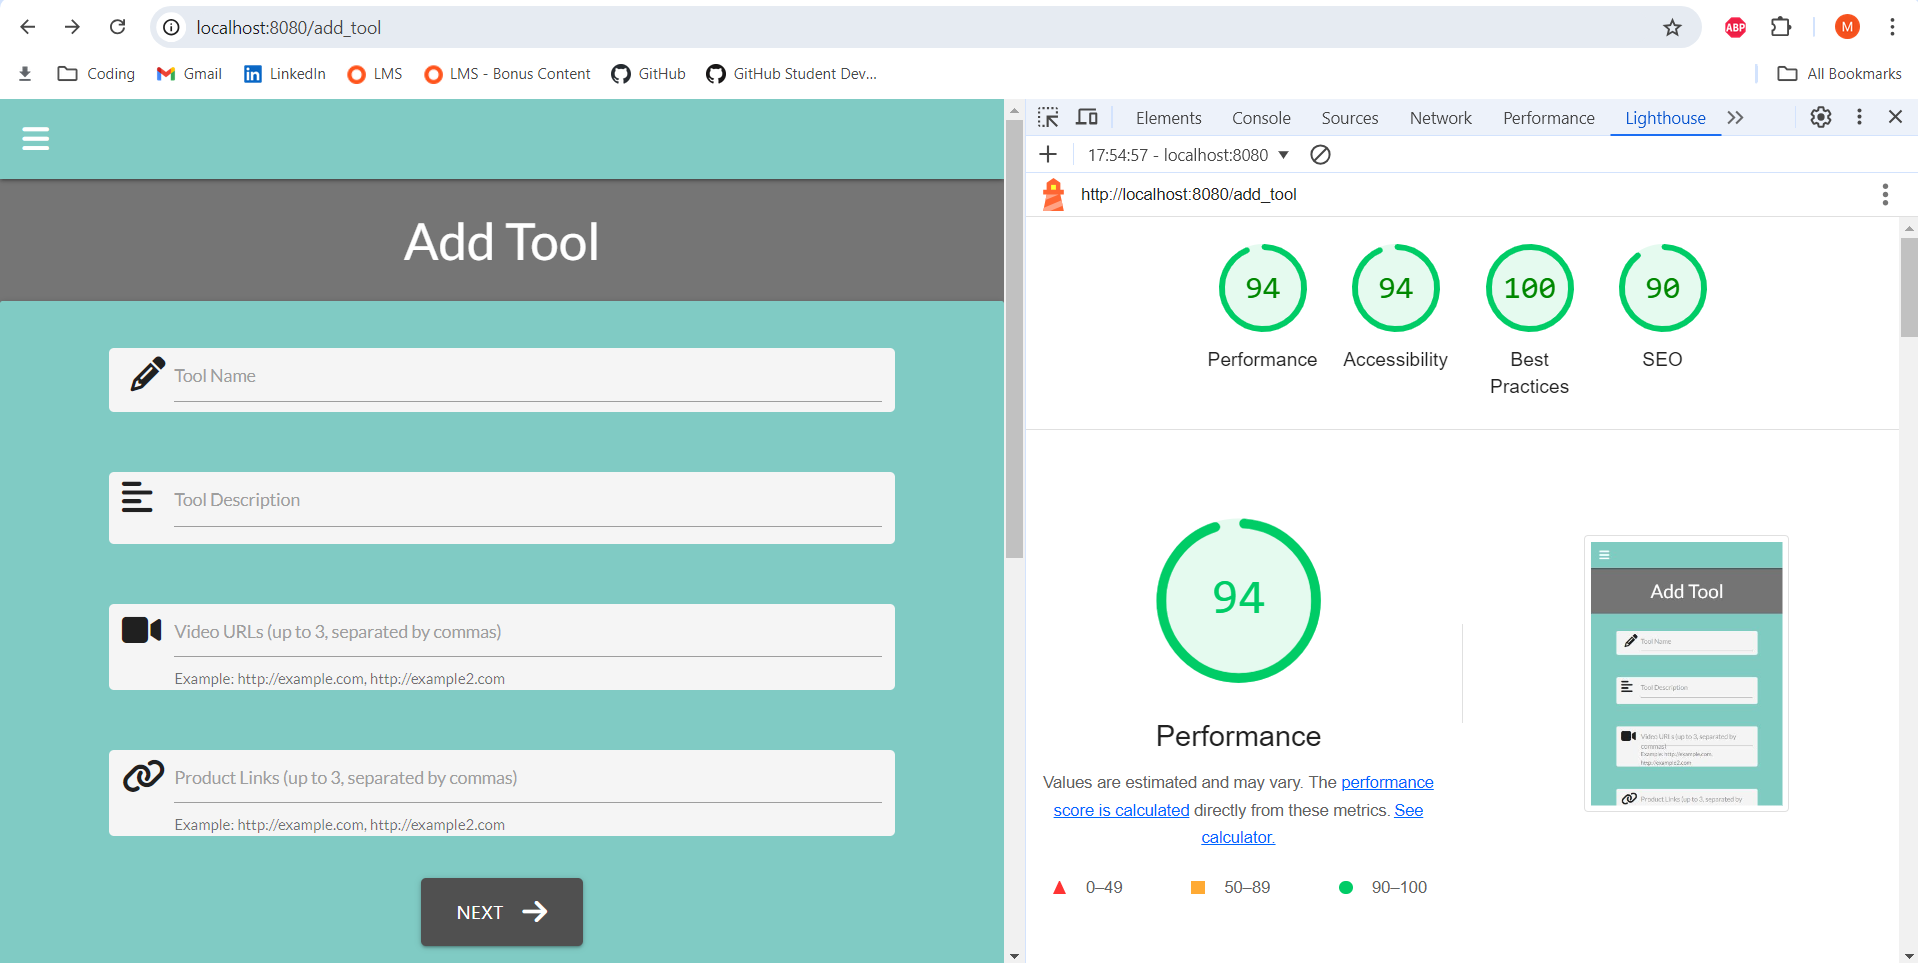
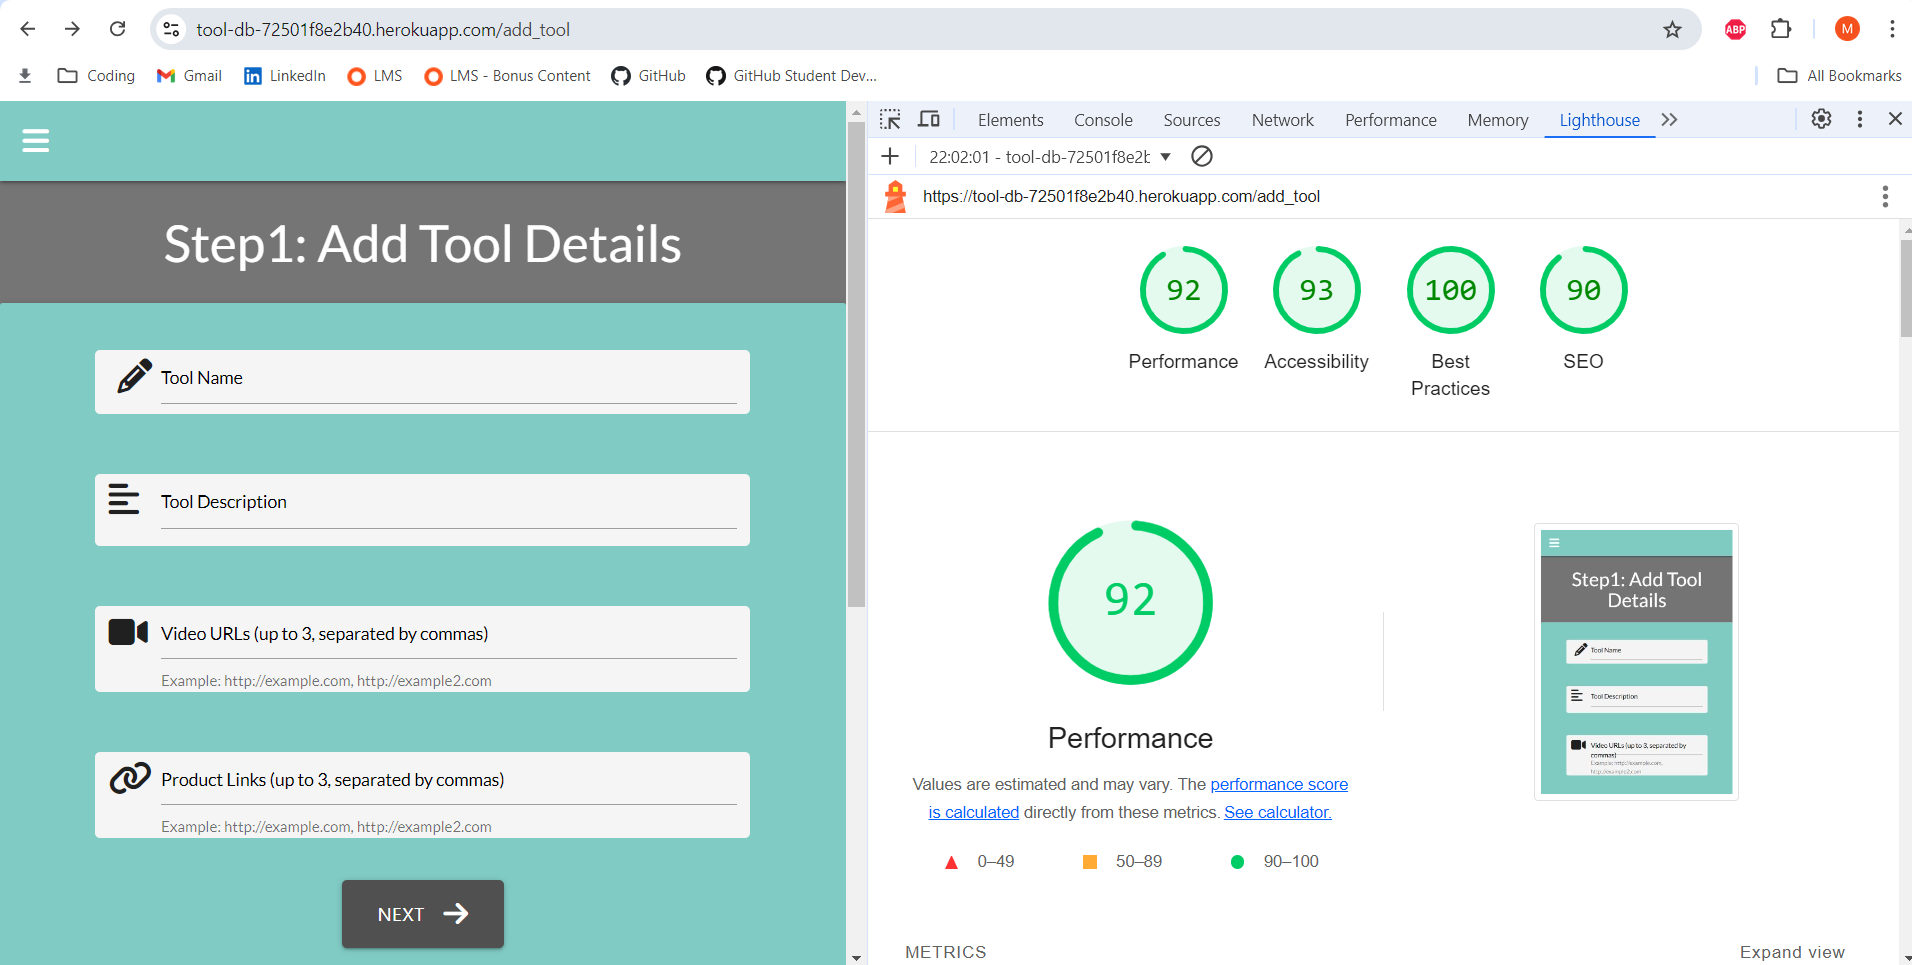
Add much more to readme, including more lighthouse scores

diff --git a/README.md b/README.md
@@ -164,13 +164,13 @@ The Woodworker's Tool Database addresses these challenges by providing an integr
 
 ## Benefits and Advantages
 
-* Centralized Resource: Combines tool information, videos, and purchase links into a single platform, saving time and effort.
+* Centralised Resource: Combines tool information, videos, and purchase links into a single platform, saving time and effort.
 
-* Enhanced Learning: Provides educational videos for each tool, helping users understand and utilize them more effectively.
+* Enhanced Learning: Provides educational videos for each tool, helping users understand and utilise them more effectively.
 
 * Convenience: Offers direct purchase links, allowing users to easily compare options and make purchases without navigating multiple websites.
 
-* Personalization: Enables users to manage their own toolbox, keeping track of their favorite tools and preferences.
+* Personalisation: Enables users to manage their own toolbox, keeping track of their favorite tools and preferences.
 
 
 ## Future Versions
@@ -183,7 +183,7 @@ Future versions of the project may include:
 
 * Tool Reviews and Ratings: User-generated reviews and ratings for tools to provide additional insights and feedback.
 
-* Mobile Optimization: Improved user experience on mobile devices, including a dedicated mobile app.
+* Mobile Optimisation: Improved user experience on mobile devices, including a dedicated mobile app.
 
 * Expanded Database: Regular updates to the tool database with new tools, videos, and purchase links.
 
@@ -233,7 +233,7 @@ User Story 2: Register for an Account
 User Story 3: View and Manage My Toolbox
 
 * As a logged-in user, I want to view the tools I have added to my toolbox and remove any tools I no longer want.
-* So that I can keep my toolbox organized and relevant to my needs.
+* So that I can keep my toolbox organised and relevant to my needs.
 
   * Acceptance Criteria:
 
@@ -288,7 +288,7 @@ User Story 6: Add New Tool
 User Story 7: Add New Category
 
 * As an admin user, I want to add new categories to the tool database.
-* So that I can organize tools into relevant and up-to-date categories.
+* So that I can organise tools into relevant and up-to-date categories.
 
   * Acceptance Criteria:
 
@@ -952,35 +952,35 @@ This application was deployed to Heroku using the following steps:
 
 2. Create a new Heroku app through the Heroku Dashboard:
 
-  * In the Heroku dashboard, click New > Create New App.
-  * Choose a unique name for your app and select a region.
+    * In the Heroku dashboard, click New > Create New App.
+    * Choose a unique name for your app and select a region.
 
 3. Add PostgreSQL:
 
-  * In the app dashboard, go to the Resources tab.
-  * In the "Add-ons" section, search for Heroku Postgres and select the Hobby Dev - Free plan.
+    * In the app dashboard, go to the Resources tab.
+    * In the "Add-ons" section, search for Heroku Postgres and select the Hobby Dev - Free plan.
 
 4. Set up environment variables:
 
-  * In the Settings tab, click Reveal Config Vars under Config Vars.
-  * Add the following keys and values:
-    * SECRET_KEY: Your secret key for the Flask app.
-    * DEBUG: Set this to False for production.
-    * DATABASE_URL: Automatically created when PostgreSQL is added.
-    * PORT: Set this to 5000 (or leave as default).
-    * IP: Set this to 0.0.0.0.
+    * In the Settings tab, click Reveal Config Vars under Config Vars.
+    * Add the following keys and values:
+      * SECRET_KEY: Your secret key for the Flask app.
+      * DEBUG: Set this to False for production.
+      * DATABASE_URL: Automatically created when PostgreSQL is added.
+      * PORT: Set this to 5000 (or leave as default).
+      * IP: Set this to 0.0.0.0.
 
 5. Connect your GitHub repository:
 
-  * In the Deploy tab, scroll down to Deployment Method and select GitHub.
-  * Search for your repository and connect it.
-  * Enable Automatic Deploys (optional) or manually deploy the branch.
+    * In the Deploy tab, scroll down to Deployment Method and select GitHub.
+    * Search for your repository and connect it.
+    * Enable Automatic Deploys (optional) or manually deploy the branch.
 
 6. Run migrations:
 
-  * In the More dropdown at the top-right corner of your app dashboard, select Run Console.
-  * Type the following to apply database migrations:
-    * flask db upgrade
+    * In the More dropdown at the top-right corner of your app dashboard, select Run Console.
+    * Type the following to apply database migrations:
+      * flask db upgrade
 
 7. Open the app: Once the deployment is successful, you can view your live app by clicking Open App at the top-right corner of the dashboard.
 
@@ -997,7 +997,6 @@ This application was deployed to Heroku using the following steps:
 * Werkzeug
 * SQLAlchemy
 
-<br> 
 
 ### How to Fork
 
@@ -1007,7 +1006,6 @@ If you want to contribute to this project or create a personal version, you can 
 2. Click the Fork button on the upper-right corner of the repository page.
 3. The project will be copied to your GitHub account, and you can freely experiment with the code.
 
-<br>
 
 ### How to Clone
 
@@ -1034,16 +1032,50 @@ You now have a local copy of the project and can follow the Local Development st
 
 ### Lighthouse 
 
-Lighthouse scores for each of the many pages are all in the 90s
+Lighthouse scores for all of the many pages are all in the 90s.
 
 ![lighthouse add tool](tool_db/static/images/lighthouse-add-tool.png)
-![lighthouse add tool](tool_db/static/images/lighthouse-categories.png)
-![lighthouse add tool](tool_db/static/images/lighthouse-glossary.png)
-![lighthouse add tool](tool_db/static/images/lighthouse-home.png)
-![lighthouse add tool](tool_db/static/images/lighthouse-home2.png)
-![lighthouse add tool](tool_db/static/images/lighthouse-home3.png)
-![lighthouse add tool](tool_db/static/images/lighthouse-manage-users.png)
-![lighthouse add tool](tool_db/static/images/lighthouse-my-toolbox.png)
-![lighthouse add tool](tool_db/static/images/lighthouse-profile.png)
-![lighthouse add tool](tool_db/static/images/lighthouse-selected-category.png)
-![lighthouse add tool](tool_db/static/images/lighthouse-selected-subcategory.png)
+
+<br>
+
+![lighthouse categories](tool_db/static/images/lighthouse-categories.png)
+
+<br>
+
+![lighthouse add category](tool_db/static/images/lighthouse-add-category.png)
+
+<br>
+
+![lighthouse add main category](tool_db/static/images/lighthouse-add-main-category.png)
+
+<br>
+
+![lighthouse add subcategory](tool_db/static/images/lighthouse-add-subcategory.png)
+
+<br>
+
+![lighthouse manage users](tool_db/static/images/lighthouse-manage-users.png)
+
+<br>
+
+![lighthouse my toolbox](tool_db/static/images/lighthouse-my-toolbox.png)
+
+<br>
+
+![lighthouse profile](tool_db/static/images/lighthouse-profile.png)
+
+<br>
+
+![lighthouse selected category](tool_db/static/images/lighthouse-selected-category.png)
+
+<br>
+
+![lighthouse selected subcategory](tool_db/static/images/lighthouse-selected-subcategory.png)
+
+<br>
+
+![lighthouse selected tool](tool_db/static/images/lighthouse-selected-tool.png)
+
+<br>
+
+![lighthouse selected tool, no iframe](tool_db/static/images/lighthouse-selected-tool-no-iframe.png)
